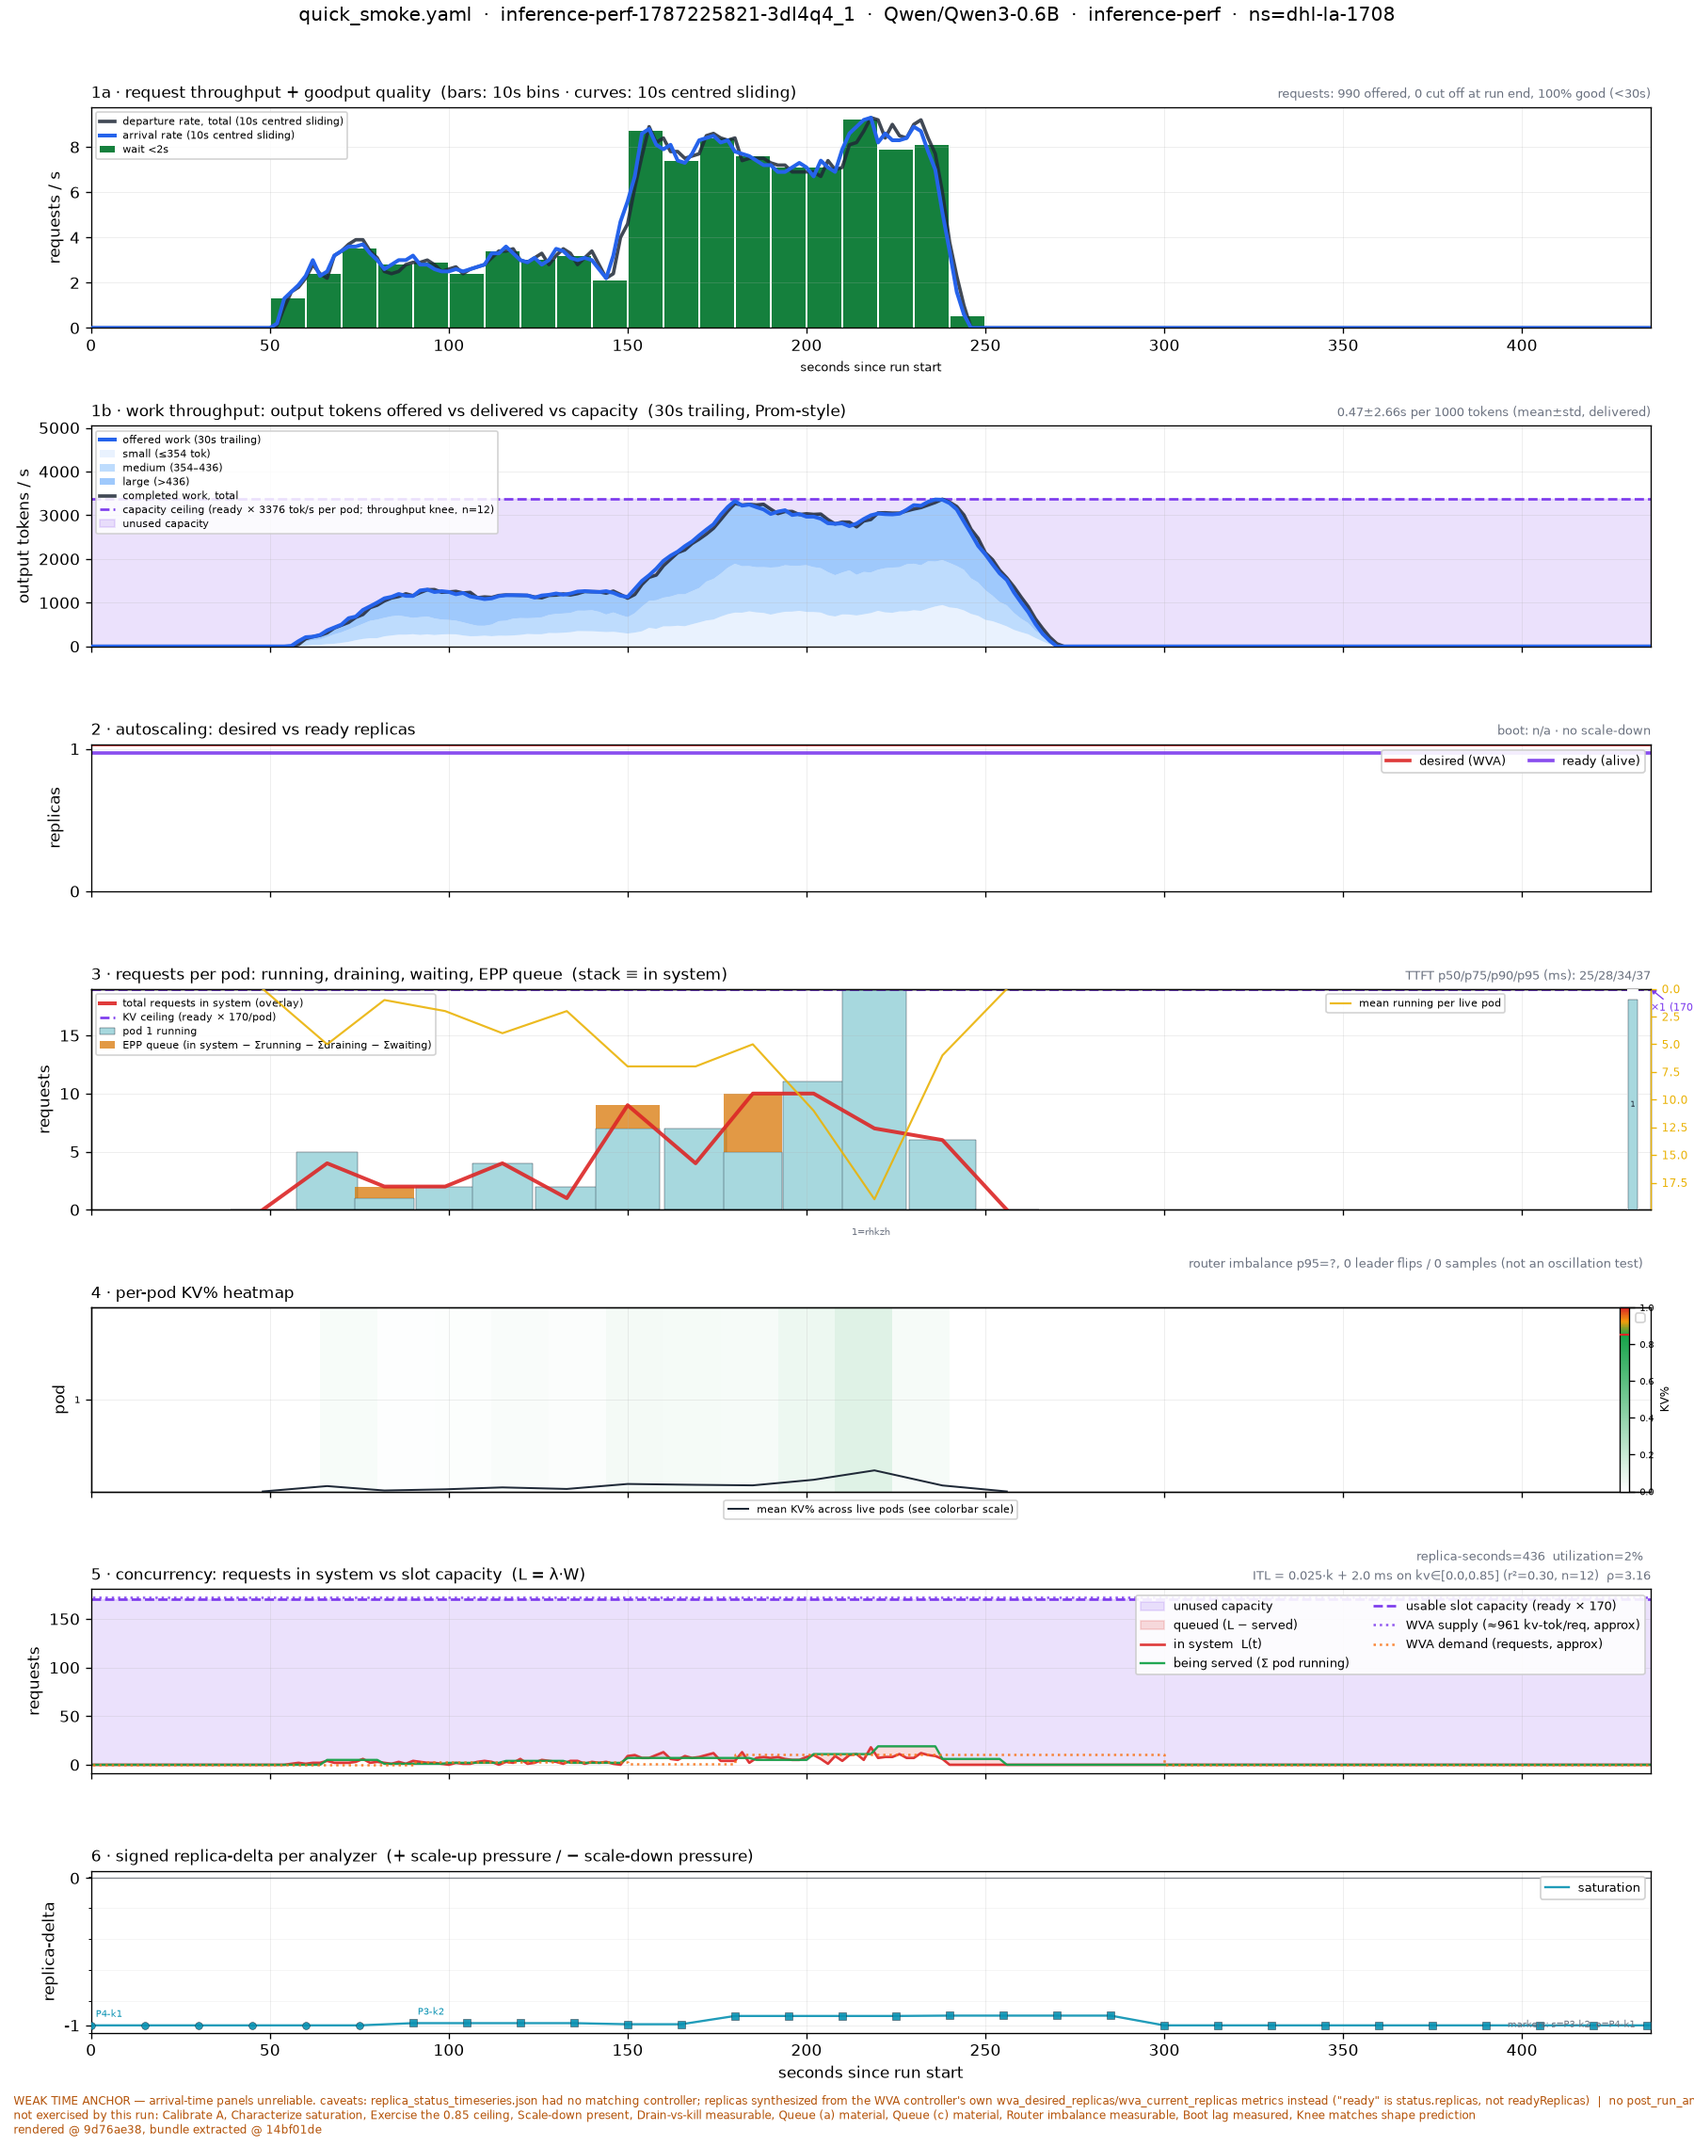
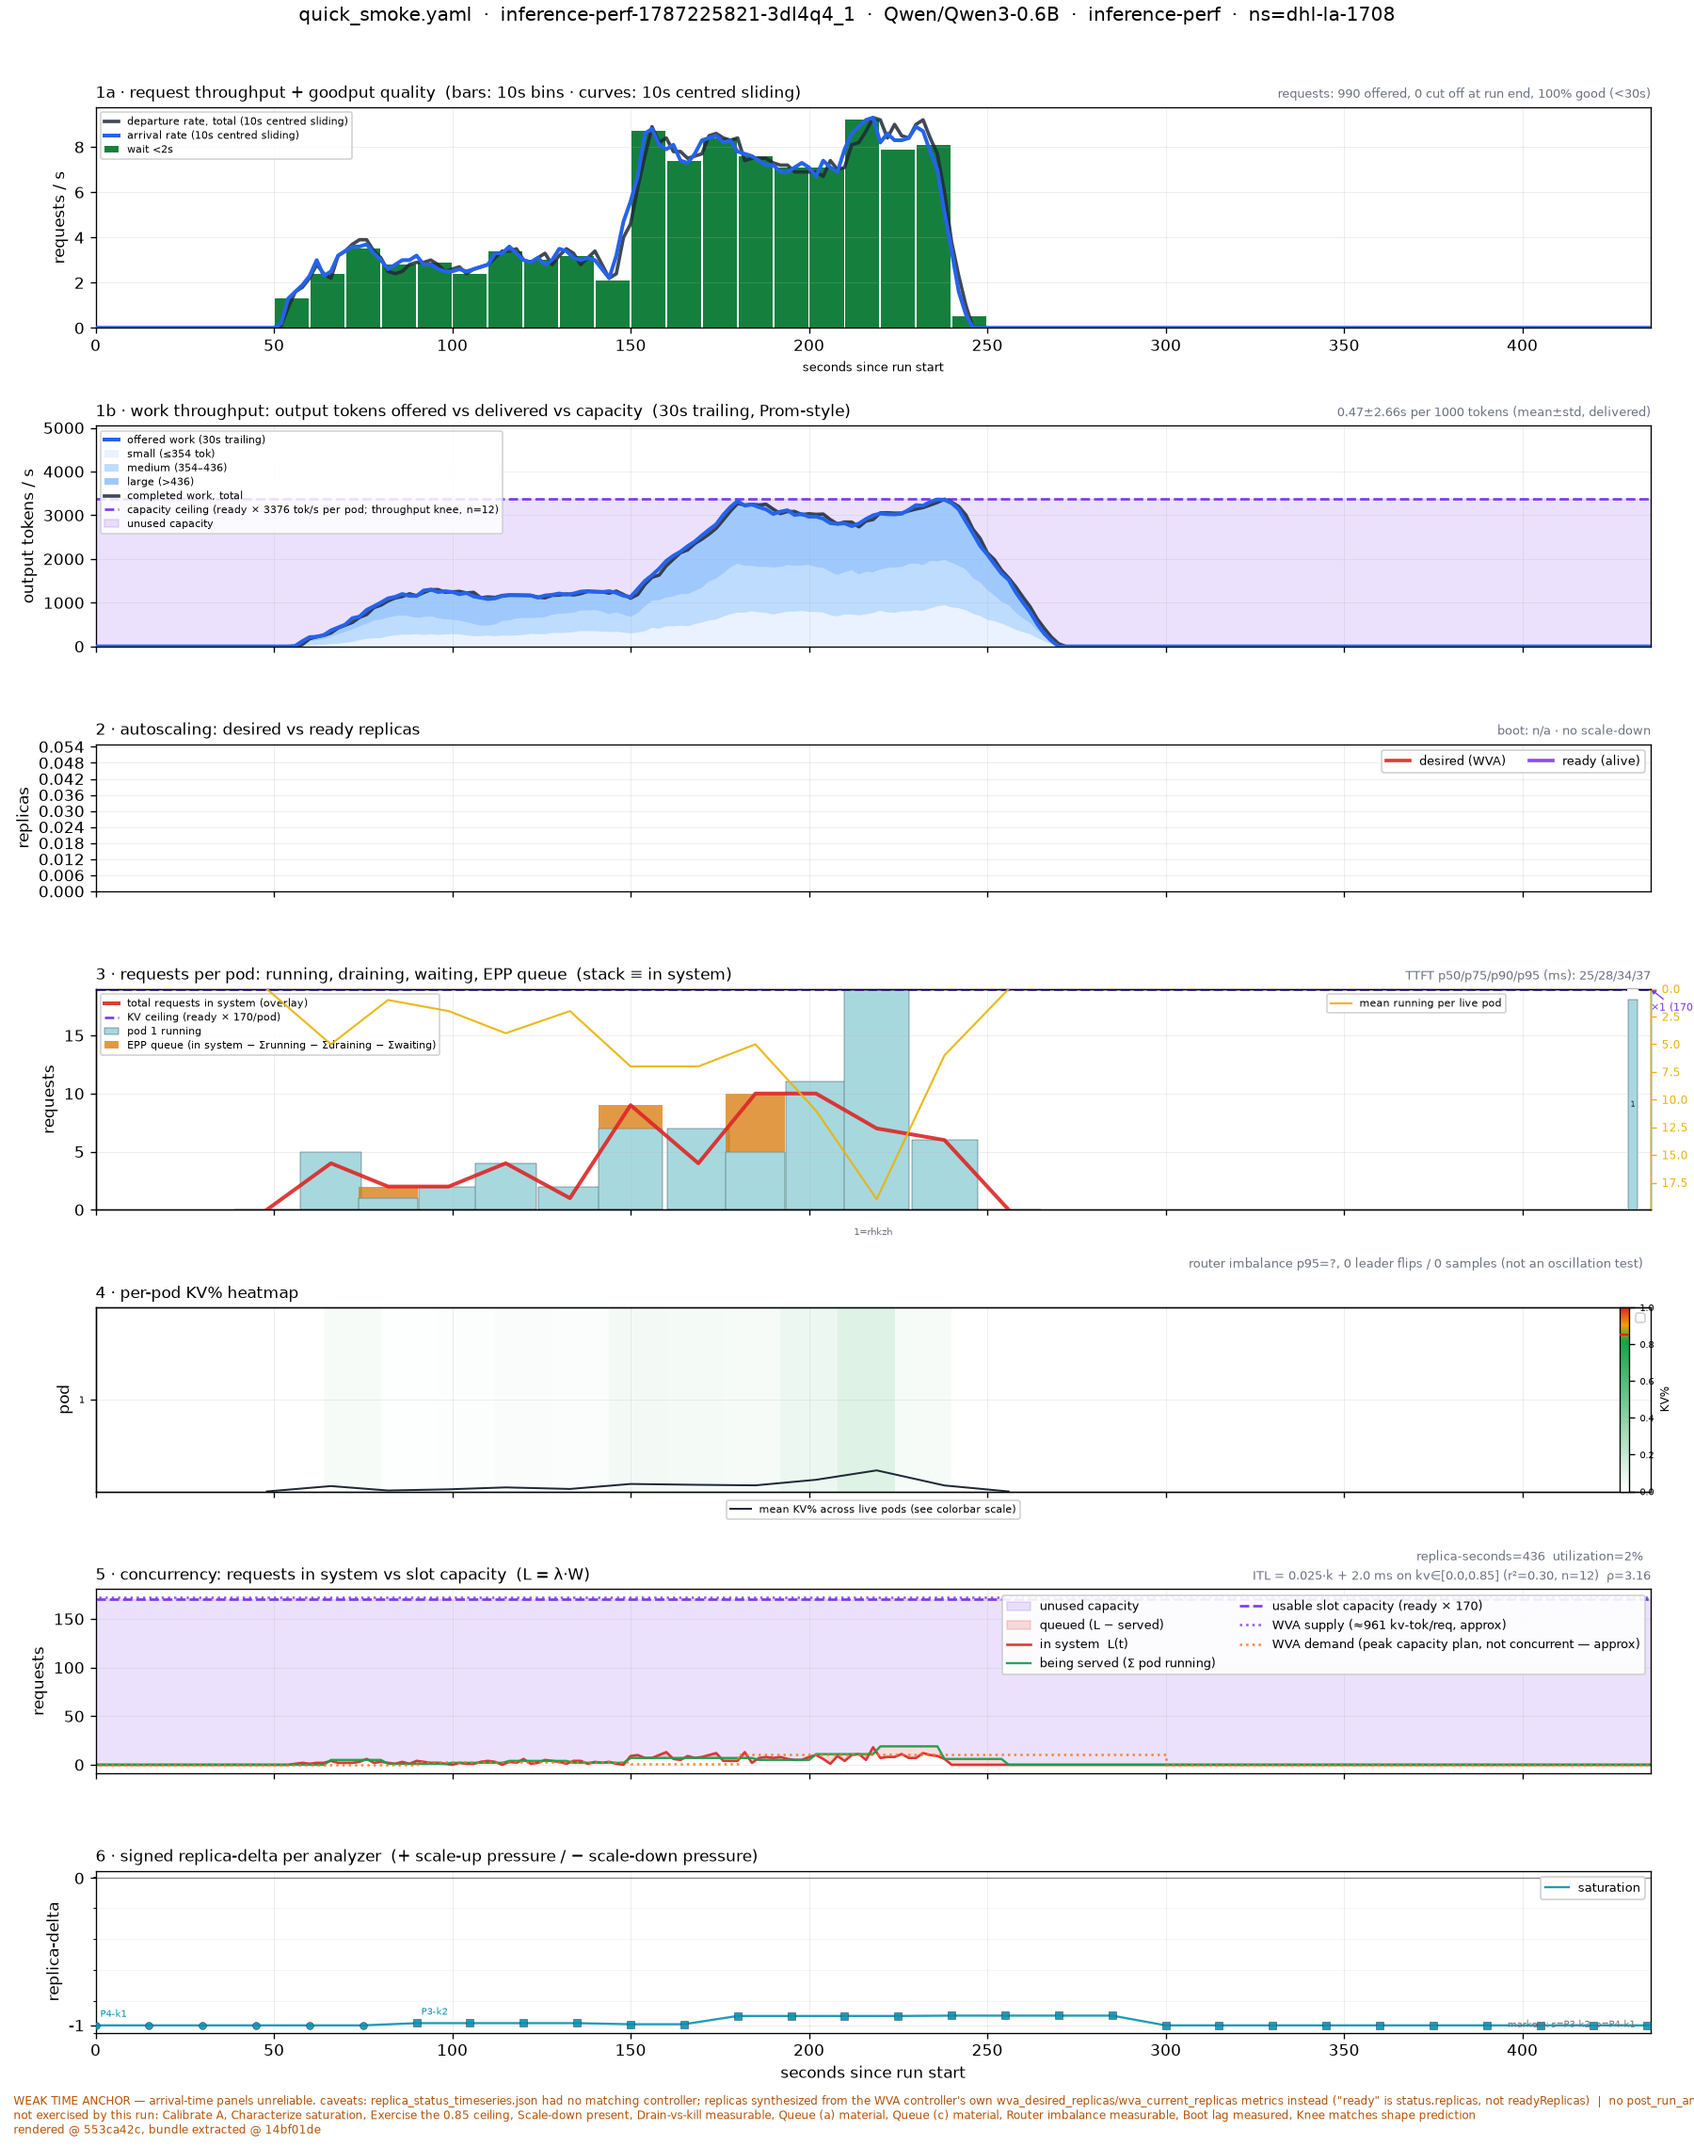
polish(benchmark): panel 2 points-space gap, panel 4 wider colour ramp, panel 5 demand label
- panel 2: replaced the data-space %-of-range offset with a fixed
  points-space one (offset_copy, y=+-lw/2 points) -- the same number of
  data units is a sliver on a 0..10 run and a canyon on a 0..1 one,
  because the axis scales differently each time (Dean: "I want the
  physical gap to be about the width of the line... not sure about the
  calculation to get there for other runs"). A points-space offset sits
  the same visual distance apart regardless of the y-axis range.
- panel 4: green now ends at max(0, 1.25*k_sat-0.25) instead of exactly
  at k_sat, per Dean's own suggested shape -- widens the amber ramp so
  crossing the real threshold doesn't read as switching straight from
  green to solid orange with almost no room in between. The red k_sat
  marker on the colorbar stays at the real threshold; only the ramp's
  own start moves.
- panel 5: relabelled "WVA demand" as a peak, no-preemption capacity
  plan rather than "requests" -- traced saturation_v2/analyzer.go via a
  background investigation (Dean: "why the overestimated demand"):
  demand charges each request's KV footprint at its LAST decode step,
  sums two 1-minute maxima that need not have coincided at any single
  instant, and prices queued requests on top -- three explicitly-
  documented biases, all toward over-provisioning on purpose. Running
  higher than in_system/being served is by design, not a conversion
  bug; the label now says so instead of inviting a direct comparison.
[…]

diff --git a/hack/benchmark/render_real_trace.py b/hack/benchmark/render_real_trace.py
@@ -54,6 +54,7 @@ try:
     import matplotlib.pyplot as plt
     from matplotlib.ticker import MaxNLocator, FuncFormatter, FixedLocator, AutoMinorLocator
     from matplotlib.colors import LinearSegmentedColormap, to_rgba
+    from matplotlib.transforms import offset_copy
     import numpy as np
 except ImportError:
     sys.exit('error: matplotlib is required to render.\n'
@@ -656,20 +657,26 @@ def render(bundle, path, title=None, coverage=None):
         dz = [r.get('desired') for r in reps]
         rz = [r.get('ready') for r in reps]
         # Tiny opposite y-offsets, exactly as the synthetic figure: once ready
-        # catches up the two coincide, and neither may hide. A fixed 0.05 was
-        # a sensible fraction of the axis on a run that never leaves 0..1,
-        # but reads as noise-thin on a run spanning 0..10 -- scaled to 3% of
-        # the actual desired/ready range instead. On a run where the two
-        # never differ at all (range 0), fall back to 3% of the value itself
-        # so the offset still means something relative to what's plotted.
-        dr_vals = [v for v in dz + rz if v is not None]
-        dr_range = (max(dr_vals) - min(dr_vals)) if dr_vals else 0
-        dr_scale = dr_range if dr_range > 0 else (max(dr_vals) if dr_vals else 1)
-        offset = min(0.1, max(0.02, 0.03 * dr_scale))
-        c.step(xs, [v + offset if v is not None else None for v in dz], where='post',
-               color=C_DES, lw=2.2, alpha=0.9, label='desired (WVA)')
-        c.step(xs, [v - offset if v is not None else None for v in rz], where='post',
-               color=C_ACT, lw=2.2, alpha=0.9, label='ready (alive)')
+        # catches up the two coincide, and neither may hide. A data-space
+        # offset (tried first: a fixed 0.05, then a %-of-range formula) never
+        # gives a consistent VISUAL gap -- the same number of data units is a
+        # sliver on a 0..10 run and a canyon on a 0..1 one, because the axis
+        # scales differently each time (Dean: "I want the physical gap to be
+        # about the width of the line... not sure about the calculation to
+        # get there for other runs"). offset_copy sidesteps the calculation
+        # entirely: it shifts by a fixed distance in POINTS, after the data
+        # transform, so the two lines sit lw points apart on the page no
+        # matter what the y-axis range is or how it's scaled.
+        LW2 = 2.2
+        c_lw2 = LW2
+        trans_up = offset_copy(c.transData, fig=fig, y=c_lw2 / 2, units='points')
+        trans_down = offset_copy(c.transData, fig=fig, y=-c_lw2 / 2, units='points')
+        dz_plot = [v if v is not None else float('nan') for v in dz]
+        rz_plot = [v if v is not None else float('nan') for v in rz]
+        c.step(xs, dz_plot, where='post', transform=trans_up,
+               color=C_DES, lw=c_lw2, alpha=0.9, label='desired (WVA)')
+        c.step(xs, rz_plot, where='post', transform=trans_down,
+               color=C_ACT, lw=c_lw2, alpha=0.9, label='ready (alive)')
         # A replica that is alive but no longer wanted is draining: still finishing
         # in-flight work, not accepting new work, so NOT usable capacity. Kept even
         # though this run has none -- if a future run drains, the band appears
@@ -1219,13 +1226,24 @@ def render(bundle, path, title=None, coverage=None):
         # 0.85 that is 15% of the colormap's own domain, so a small real
         # excess (0.86, 0.87...) already reads as strongly red: everything
         # "above threshold" looked equally alarming, with no way to tell a
-        # mild overshoot from a severe one (Dean: "there is bad and there is
-        # really bad"). An amber stop halfway between k_sat and 1.0 splits
-        # that range into two: green->amber for a mild overshoot, amber->red
-        # reserved for one that's actually severe.
+        # mild overshoot from a severe one. An amber stop between green and
+        # red splits that into two: green->amber for a mild overshoot,
+        # amber->red for a severe one. Starting the split exactly at k_sat
+        # left too little room either side of it once amber was added in
+        # (Dean, after seeing that render: "transition to red still not
+        # abrupt enough" -- read together with the concrete formula given
+        # alongside it, spreading the ramp wider, not sharper, is what's
+        # being asked for). green_end anchors the ramp a little BEFORE k_sat
+        # instead of exactly at it, per Dean's own suggested shape
+        # (1.25*k_sat - 0.25), clamped so it can never go negative for a low
+        # k_sat. The red threshold MARKER on the colorbar (below) stays at
+        # the real k_sat regardless -- only the colour ramp's own start
+        # moves, not the actual scaling threshold it's illustrating.
+        green_end = max(0.0, 1.25 * k_sat - 0.25)
+        amber_mid = green_end + (1.0 - green_end) * 0.5
         kv_cmap = LinearSegmentedColormap.from_list(
-            'kv_heat', [(0.0, '#ffffff'), (k_sat, '#16a34a'),
-                        (k_sat + (1.0 - k_sat) * 0.5, '#f59e0b'),
+            'kv_heat', [(0.0, '#ffffff'), (green_end, '#16a34a'),
+                        (amber_mid, '#f59e0b'),
                         (1.0, '#dc2626')])
         dead_color = to_rgba('#d1d5db')  # distinct light gray -- never claimed by a real 0.0
         rgba = np.array(
@@ -1423,9 +1441,22 @@ def render(bundle, path, title=None, coverage=None):
             f.step(xs_sd, supply_req, where='post', color='#7c3aed', ls=':',
                    lw=1.5, alpha=0.85, zorder=2.6,
                    label=f'WVA supply (≈{kv_tok_per_req:.0f} kv-tok/req, approx)')
+            # demand runs structurally higher than in_system/being served BY
+            # DESIGN, not as a measurement error -- confirmed by tracing
+            # saturation_v2/analyzer.go directly: it charges each request's
+            # KV footprint at its LAST decode step (a peak, no-preemption
+            # planning charge), sums two 1-minute maxima that need not have
+            # coincided at any single real instant, and prices a queued
+            # request's expected footprint on top of that -- three separate,
+            # explicitly-documented biases, all toward over-provisioning on
+            # purpose ("under-provisioning decode capacity causes preemption
+            # and recompute thrash, which costs more than a spare replica").
+            # Labelled as a capacity PLAN, not a concurrency estimate, so it
+            # doesn't read as this panel's other lines all disagreeing with
+            # each other.
             f.step(xs_sd, demand_req, where='post', color='#f97316', ls=':',
                    lw=1.5, alpha=0.85, zorder=2.6,
-                   label='WVA demand (requests, approx)')
+                   label='WVA demand (peak capacity plan, not concurrent — approx)')
     if nsys_g or served_g:
         fit = der.get('itl_fit') or {}
         if fit.get('A_ms_per_req'):
